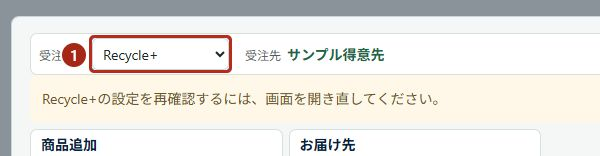
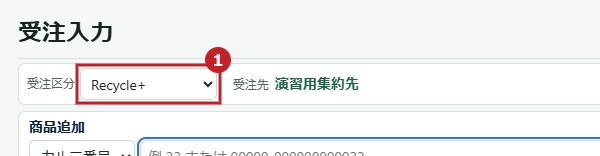
更新した受注画面の図と郵便番号による住所検索手順を追加

diff --git a/scripts/qa-sales-order-inventory.js b/scripts/qa-sales-order-inventory.js
@@ -37,7 +37,7 @@ async function verifyFaxHelpWindow(browser, base) {
   await work.goto(base+"/fax-help-test");
   await work.locator("#draft").fill("unsubmitted order text");
   const [help]=await Promise.all([context.waitForEvent("page"),work.locator("#sales-order-fax-help").click()]);
-  await help.waitForURL("**/assets/help/fax-order.html?v=1#overview");
+  await help.waitForURL("**/assets/help/fax-order.html?v=2#overview");
   const windowId=async page=>{
    const session=await context.newCDPSession(page);
    try { return (await session.send("Browser.getWindowForTarget")).windowId; }
@@ -47,7 +47,7 @@ async function verifyFaxHelpWindow(browser, base) {
   assert.equal(await help.evaluate(()=>window.opener===null),true);
   await work.getByRole("button",{name:"Accounting"}).click();
   await work.locator("#sales-order-fax-help").press("Enter");
-  await help.waitForURL("**/assets/help/fax-order.html?v=1#export");
+  await help.waitForURL("**/assets/help/fax-order.html?v=2#export");
   await work.locator("[data-feature-help]").press("Enter");
   await help.waitForURL("**/assets/help/features.html?v=1#search");
   assert(await help.locator("#search").isVisible());

diff --git a/index.html b/index.html
@@ -751,7 +751,7 @@
               <button type="button" class="sales-order-postal-settings-button" id="sales-order-postal-settings-open" hidden data-i18n="sales_order_postal_settings_action">住所検索設定</button>
             </div>
           </details>
-          <a class="sales-order-help-link" id="sales-order-fax-help" data-fax-help-section="orders" href="assets/help/fax-order.html?v=1" target="_blank" rel="noopener noreferrer" aria-label="ヘルプ（別ウィンドウ）">ヘルプ</a>
+          <a class="sales-order-help-link" id="sales-order-fax-help" data-fax-help-section="orders" href="assets/help/fax-order.html?v=2" target="_blank" rel="noopener noreferrer" aria-label="ヘルプ（別ウィンドウ）">ヘルプ</a>
         </div>
         <input type="file" id="sales-order-import-b2-file" accept=".csv,text/csv" hidden>
         <span class="sales-order-batch-message" id="sales-order-batch-message" aria-live="polite"></span>

diff --git a/assets/help/fax-order.css b/assets/help/fax-order.css
@@ -119,3 +119,5 @@
     figure, .card, .matrix > div, .check, .notice { break-inside: avoid; }
     .section-head, h2, h3 { break-after: avoid; }
   }
+
+.fax-entry-screen { display: block; max-width: 100%; height: auto; }
